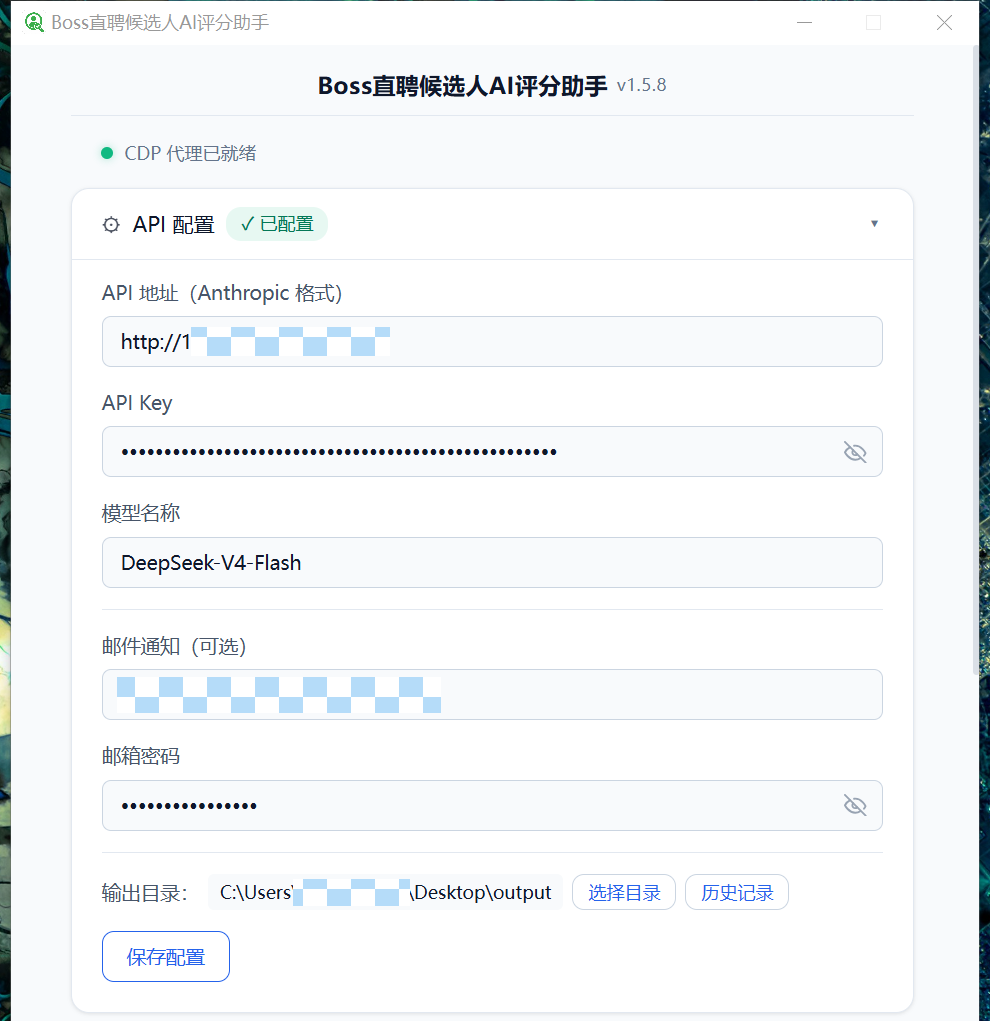
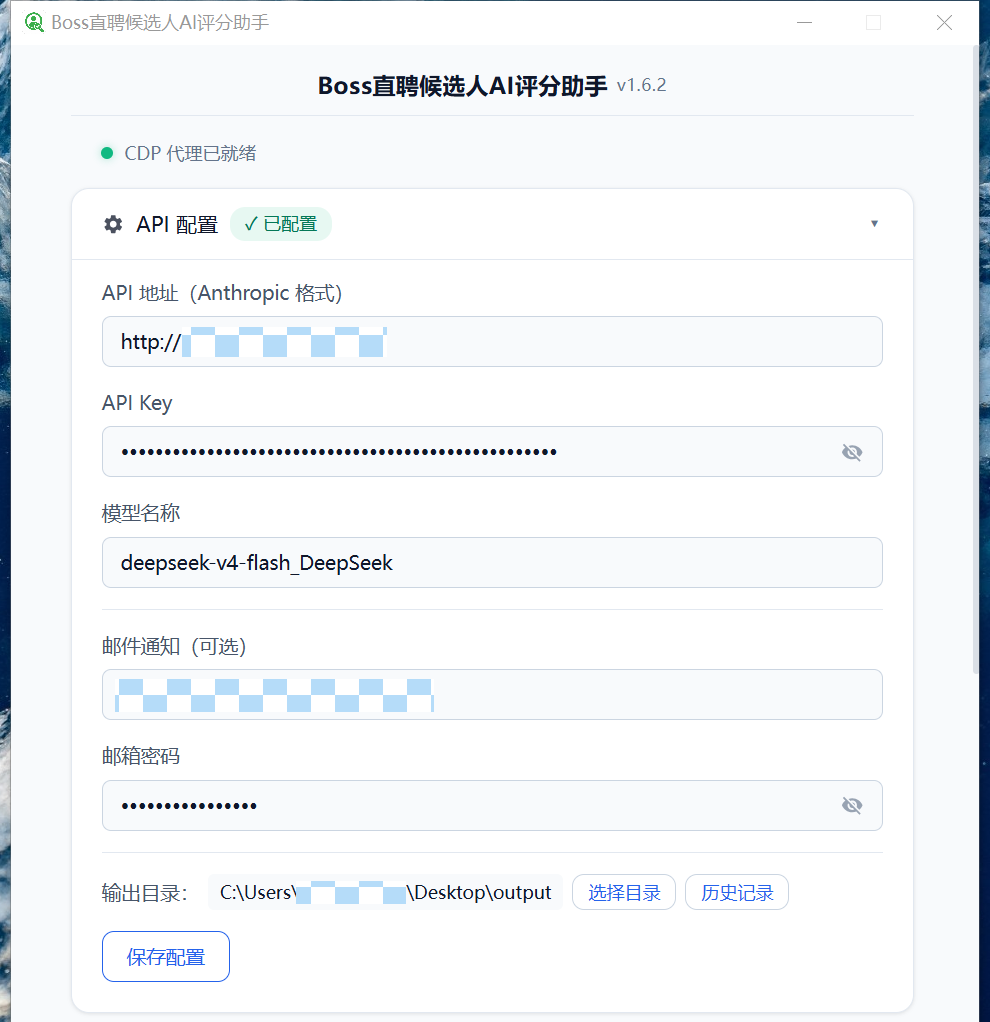
v1.6.3：岗位描述拖拽手柄再打磨（一长一短经典斜线、真正贴右下角、滚动条与手柄留空隙）

diff --git a/electron/renderer/style.css b/electron/renderer/style.css
@@ -1310,18 +1310,23 @@ button.is-loading::before {
   font-family: inherit;
   resize: none; /* 隐藏原生 resize 手柄，改用右下角自定义拖拽手柄（更大、更好看） */
   line-height: 1.5;
+  display: block; /* 消除行内元素基线空隙：否则容器底部比文本域高约 4px，右下角拖拽手柄会掉到文本域下边、贴底不均 */
+}
+/* 岗位描述文本域的滚动条底部缩进，让滚动条拖到底时与手柄留 1px 空隙（手柄占底 3px+15px 高） */
+.dialog-field textarea::-webkit-scrollbar-track {
+  margin-bottom: 19px;
 }
 .textarea-resize-handle {
   position: absolute;
-  right: 4px;
-  bottom: 4px;
-  width: 18px;
-  height: 18px;
+  right: 3px;
+  bottom: 3px;
+  width: 15px;
+  height: 15px;
   display: flex;
   align-items: center;
   justify-content: center;
   color: var(--text-muted);
-  opacity: .7;
+  opacity: .75;
   cursor: ns-resize; /* 只调高度，用上下箭头 */
   z-index: 1;
   transition: color var(--transition-fast), opacity var(--transition-fast);

diff --git a/electron/renderer/index.html b/electron/renderer/index.html
@@ -378,8 +378,8 @@
         <label for="dialog-job-desc">岗位描述</label>
         <textarea id="dialog-job-desc" rows="8" placeholder="粘贴已按 README 第5步转换好的岗位描述（勿粘贴原始 JD）"></textarea>
         <div class="textarea-resize-handle" id="dialog-resize-handle" aria-hidden="true">
-          <svg width="14" height="14" viewBox="0 0 24 24" fill="none" stroke="currentColor" stroke-width="2" stroke-linecap="round">
-            <line x1="8" y1="16" x2="16" y2="8"/><line x1="12" y1="16" x2="16" y2="12"/>
+          <svg width="12" height="12" viewBox="0 0 24 24" fill="none" stroke="currentColor" stroke-width="2" stroke-linecap="round">
+            <line x1="7" y1="19" x2="18" y2="8"/><line x1="13" y1="19" x2="18" y2="14"/>
           </svg>
         </div>
       </div>

diff --git a/RELEASE_NOTES.md b/RELEASE_NOTES.md
@@ -1,5 +1,9 @@
 ## 更新内容（9月1日）
 
+### v1.6.3 更新内容
+
+- **岗位描述拖拽手柄再打磨**：右下角的拖拽斜线改成经典的「一长一短」样式，两条线间距拉开、整体更小巧；手柄现在真正贴在文本域右下角，离底边和侧边一样远（以前会偏下、紧贴着底边）；滚动条拖到底时和手柄之间留出一点空隙，不再挨在一起
+
 ### v1.6.2 更新内容
 
 - **「未找到推荐页」弹窗改回工具样式**：检测到 Chrome 已打开但没开推荐牛人页时，弹出的确认框之前变成了系统样式，现在改回工具自己的弹窗，和其他弹窗长得一样
